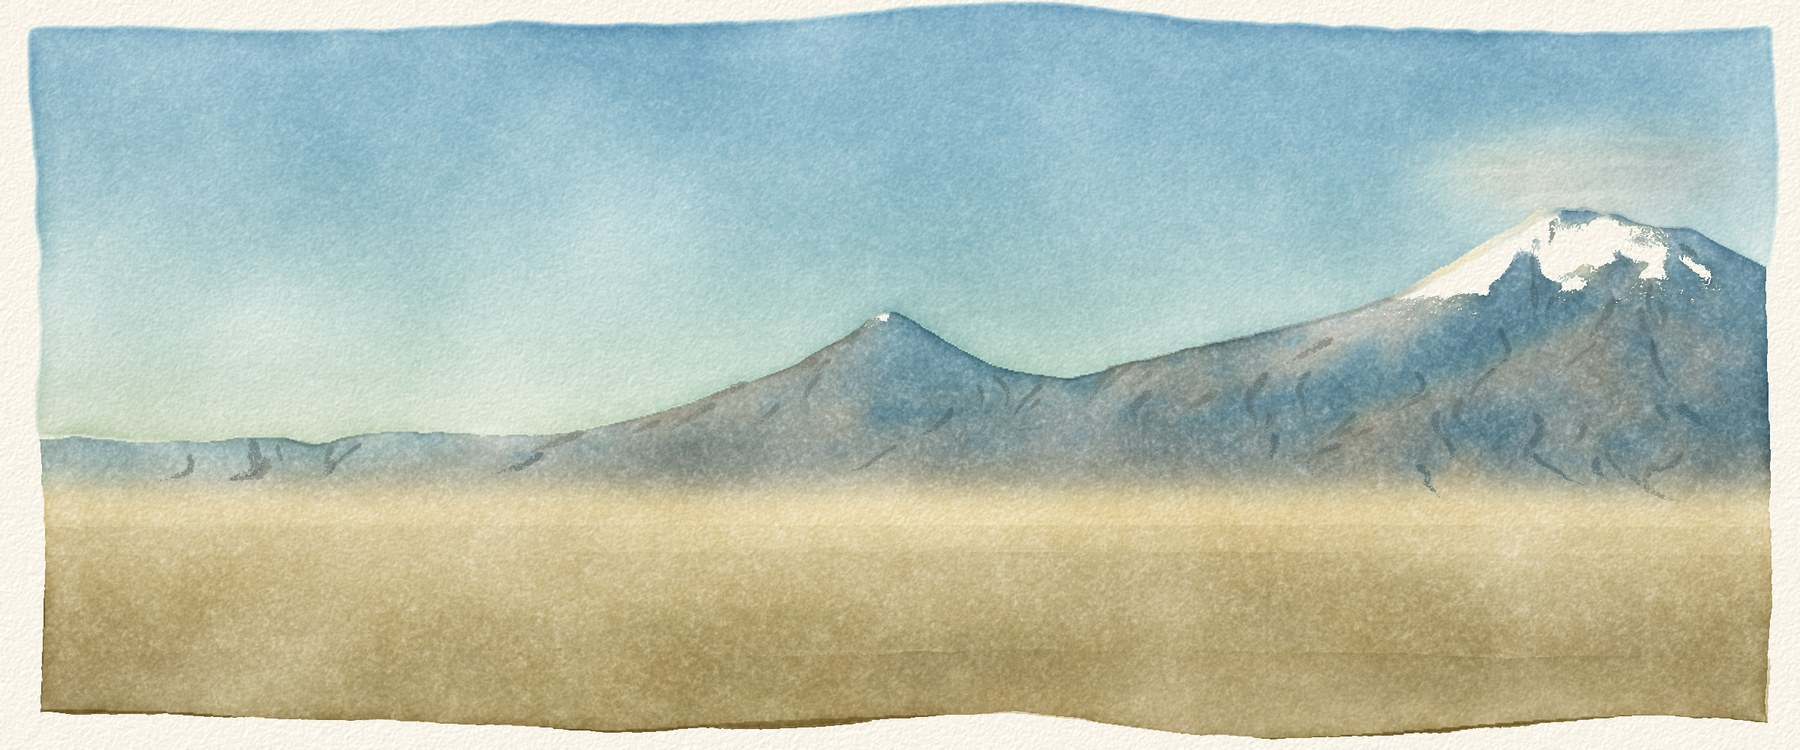
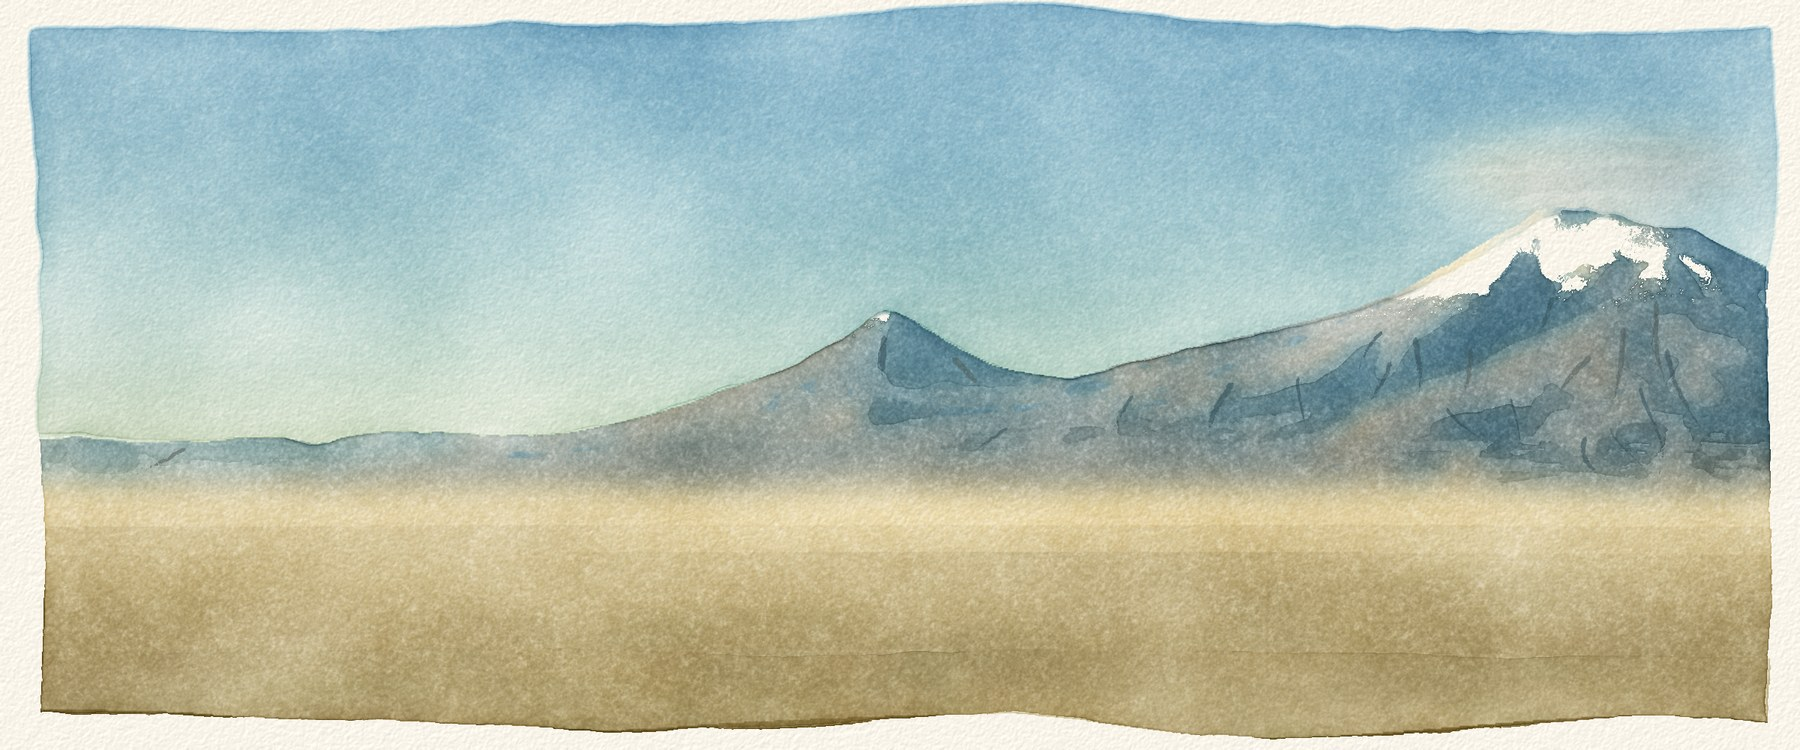
Watercolours re-rendered with grown backruns, crisper rims and shadow washes
The published estuary, poppies, Fuji and Ararat watercolours and the detail crop
come from the new engine; the changelog, README and SKILL.md limits are updated.

Claude-Session: https://claude.ai/code/session_017dhVAAuNmHvMBg3wod6FzZ

diff --git a/CHANGELOG.md b/CHANGELOG.md
@@ -17,7 +17,7 @@ All notable changes to this project are documented here. Versions follow [semant
 - Three finished studies: `rain_at_blue_hour.py`, `wind_over_the_barley.py`, `lemons_and_blue_jug.py`. About 30k strokes and 70–90 s at 2400×1600 on one core.
 - The 3D stage: `scripts/stage.py` sets the subject up as a small scene of solids (sphere, ellipsoid, box, capsule, cylinder, cone, torus, plane, lathe), posable figures (`figure`, eight poses and joint angles, skirt, coat, hat), a camera and a light, and renders what a painter needs: a colour study in light and shadow families with cast shadows, a mask and depth per object, highlights, and brush directions that follow each form. `paint(p, B, focus=...)` lays it back to front. `load_pathtracer_scene` reads `procedural-realism` scene files. Two studies: `the_letter.py` (an interior with a seated figure) and `pomegranates_from_the_scene.py`.
 - Watercolour, a second medium: `scripts/aquarelle.py` simulates transparent pigment layers over white paper on a wetness field (wet-in-wet spread, hard edges that dry darker at the rim, granulation into the paper grain per pigment, dry brush, clean-water drops, lifting, a process film). `Paper`, `wet`, `wash`, `drop`, `stroke`, `dry`, `lift`; two studies, `estuary_in_watercolour.py` and `poppies_in_watercolour.py`; `references/aquarelle.md`.
-- Watercolour of any picture: `scripts/aquarelle_repaint.py --in IMAGE --out wc.png [--aov BANDS/aov]` reserves the lights as bare paper, drops the sky into wet paper and lays the land as washes from far to near; with the terrain renderer's painter buffers it separates snow, cloud, water and depth planes. In the engine: wash edges wander like a loaded brush (`hand=`), clean water in a drying wash leaves a backrun (`bloom=`), and colour travels further on very wet paper.
+- Watercolour of any picture: `scripts/aquarelle_repaint.py --in IMAGE --out wc.png [--aov BANDS/aov]` reserves the lights as bare paper, drops the sky into wet paper and lays the land as washes from far to near; with the terrain renderer's painter buffers it separates snow, cloud, water and depth planes. In the engine: wash edges wander like a loaded brush (`hand=`), clean water in a drying wash leaves a backrun (`bloom=`), and colour travels further on very wet paper. Backruns grow as a front through the damp wash (fastest into fresh paper and along the grain, held back in their own bays, stopped when their water is spent) and leave an even dark line with a pale middle; wash rims are redrawn at full resolution. With painter buffers, the faces turned from the light become flat shadow washes and the dry-brush accents follow fall lines and ridges.
 - A closer figure: the stage's `figure()` now has a head with a jaw, brow, eye sockets, nose, mouth and ears, hair styles (`hair_style`), hands with a palm, thumb and jointed mitt that can hold things (`grip_*` joints), and cloth with folds (`drape`, `cloth=`). It holds up to half length; a third stage study, `the_white_cup.py`, shows it.
 - Moving paintings: `scripts/motion.py` paints a fixed-camera film (a sunset timelapse) as one canvas. The first frame is painted in full, a few key frames add what the fixed strokes cannot show, and every frame is the same strokes laid again in that frame's colours, so the brushwork holds still while the light moves. In the engine: `Painting.replay(tape, study)`, `tape='full'`, `fade=True` for lights that are laid only while lit.
 - Painting in sittings: `scripts/sitting.py` keeps a painting as a folder (`study.py` plus one file per sitting), checkpoints the wet canvas after each sitting and writes a look sheet (canvas, study, both in grey, difference map), so the next sitting is decided after looking; editing a sitting replays only from there. `--final` renders at full size with film and tape, `--bundle` writes one standalone script. A fourth study, `harbour_at_first_light.py`, was painted this way.

diff --git a/skills/procedural-painting/SKILL.md b/skills/procedural-painting/SKILL.md
@@ -123,7 +123,7 @@ In your own script the pieces are `Painting(..., tape='full')`, `p.replay(tape, 
 
 ## Watercolour
 
-When the user asks for watercolour, use `scripts/aquarelle.py` instead of the oil engine: `from aquarelle import *`, `p = Paper(W, H, seed=1)`. The order is the medium's own: light to dark, whites are paper left bare, a wash on wet paper has no edge and a wash on dry paper keeps one. `p.wet(mask)`, `p.wash(mask, color, strength)`, `p.drop(points, color)` (charge colour or clean water into a wet wash), `p.stroke(lines, color, size, dry=...)`, `p.dry()` between layers, `p.save(out)`. Read `references/aquarelle.md` and one of `studies/estuary_in_watercolour.py` (wet sky, granulating hills, dry-brush water) or `studies/poppies_in_watercolour.py` (transparent petal layers) first. To paint an existing picture or a terrain render as a watercolour: `python $S/aquarelle_repaint.py --in ararat.png --out ararat_wc.png [--aov work/ararat/bands_2400x1000/aov] [--height 1000] [--border 0]`. Its limits: backruns are drawn more than simulated, it is soft at 1:1, and without `--aov` a mountain is split into planes by tone alone.
+When the user asks for watercolour, use `scripts/aquarelle.py` instead of the oil engine: `from aquarelle import *`, `p = Paper(W, H, seed=1)`. The order is the medium's own: light to dark, whites are paper left bare, a wash on wet paper has no edge and a wash on dry paper keeps one. `p.wet(mask)`, `p.wash(mask, color, strength)`, `p.drop(points, color)` (charge colour or clean water into a wet wash), `p.stroke(lines, color, size, dry=...)`, `p.dry()` between layers, `p.save(out)`. Read `references/aquarelle.md` and one of `studies/estuary_in_watercolour.py` (wet sky, granulating hills, dry-brush water) or `studies/poppies_in_watercolour.py` (transparent petal layers) first. To paint an existing picture or a terrain render as a watercolour: `python $S/aquarelle_repaint.py --in ararat.png --out ararat_wc.png [--aov work/ararat/bands_2400x1000/aov] [--height 1000] [--border 0]`. Its limits: the mottling inside a wash is soft at 1:1, the dry-brush accents suggest a slope more than draw it, and without `--aov` a mountain is split into planes by tone alone.
 
 ## Watching it paint in a browser
 

diff --git a/README.md b/README.md
@@ -327,7 +327,7 @@ One CPU core:
 
 ## Limits
 
-What works and what doesn't: light, atmosphere, glass, metal and real terrain at a distance look right. Trees, houses and walls within about 60 m look rendered rather than photographed; city buildings are boxes with guessed heights; paintings soften fine detail on noisy sources; organic shapes like petals are out of reach for the path tracer. Paintings from imagination are only as good as their drawing: figures from the 3D stage hold up to half length, with a plain face, mitten-like hands and a few folds; separate fingers, a gaze, real drapery and likenesses are still out of reach. Watercolours get the paper, the transparency and the edges right, but backruns are drawn more than simulated, they are soft at full size, and a mountain painted without the renderer's buffers is split into planes by tone alone. The skills say so when a request lands there.
+What works and what doesn't: light, atmosphere, glass, metal and real terrain at a distance look right. Trees, houses and walls within about 60 m look rendered rather than photographed; city buildings are boxes with guessed heights; paintings soften fine detail on noisy sources; organic shapes like petals are out of reach for the path tracer. Paintings from imagination are only as good as their drawing: figures from the 3D stage hold up to half length, with a plain face, mitten-like hands and a few folds; separate fingers, a gaze, real drapery and likenesses are still out of reach. Watercolours get the paper, the transparency and the edges right, but the mottling inside a wash is soft at full size, and a mountain painted without the renderer's buffers is split into planes by tone alone. The skills say so when a request lands there.
 
 ## Repository layout
 
